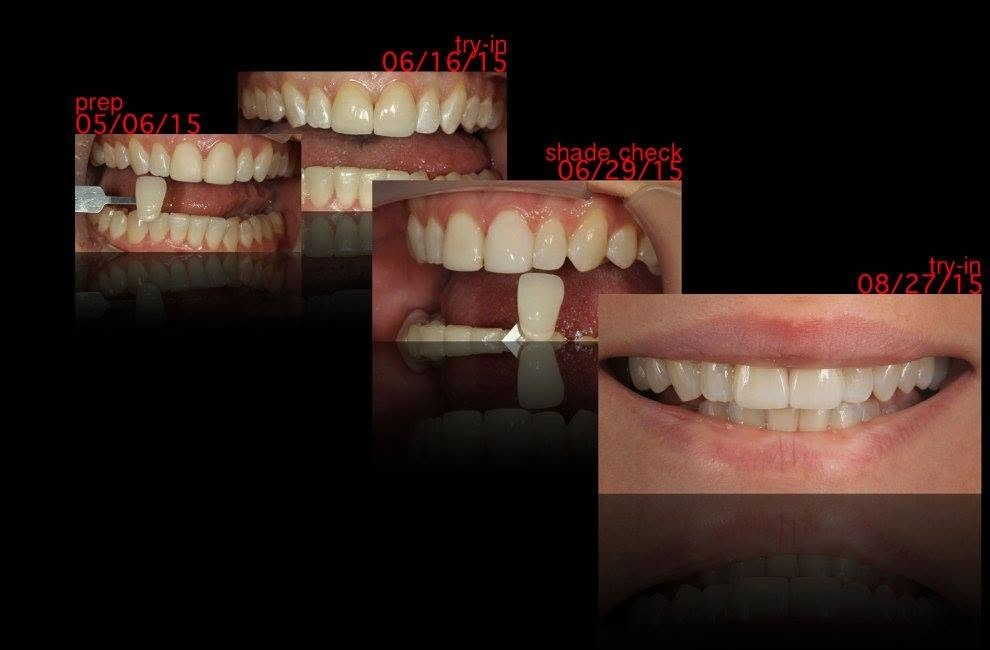
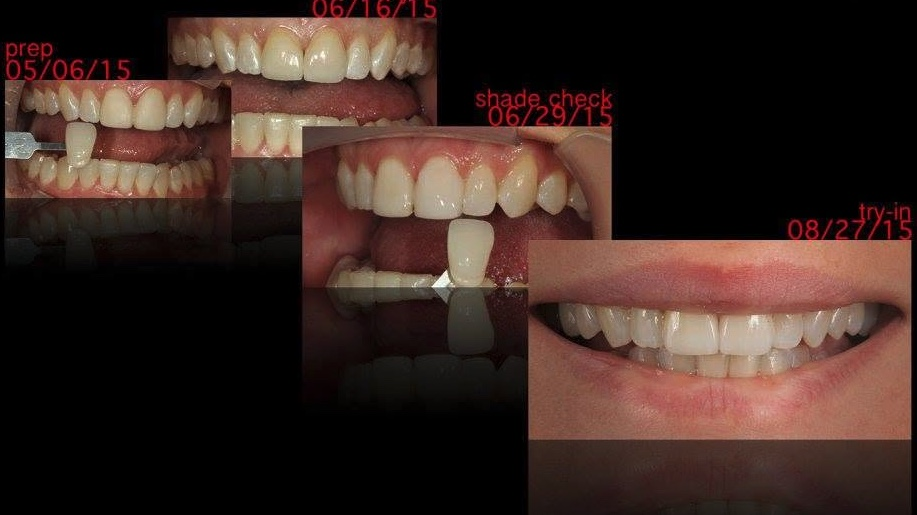
Consultation formats: Case Review uses Step's own crop of the case shots

diff --git a/src/components/ConsultFormats.jsx b/src/components/ConsultFormats.jsx
@@ -37,7 +37,7 @@ const formats = [
     // a LiSi case from prep to try-in: the series of shots, cropped from the full slide without its title and
     // bottom lettering
     image: '/images/consult/case-review-lisi.jpg',
-    position: 'object-[30%_30%]',
+    position: 'object-[35%_30%]',
     // a photo card one column wide, so the first row still fits
     narrow: true,
   },
